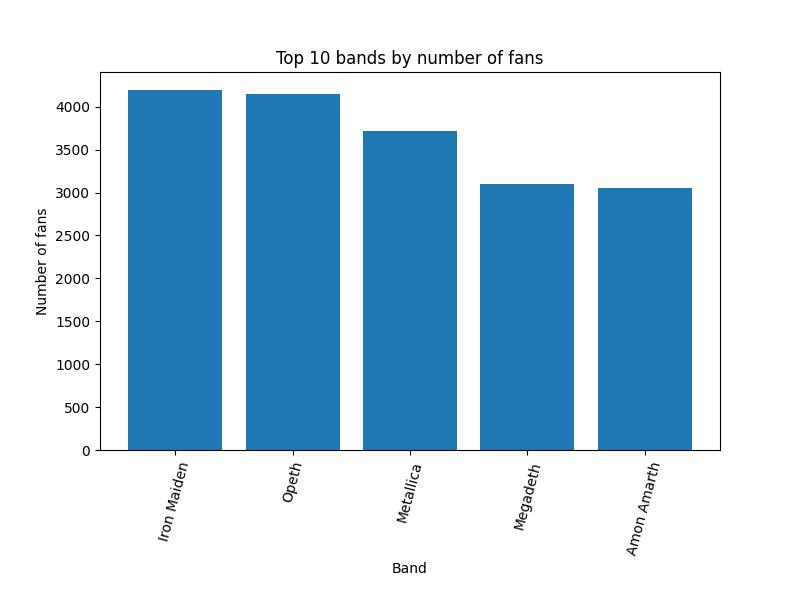
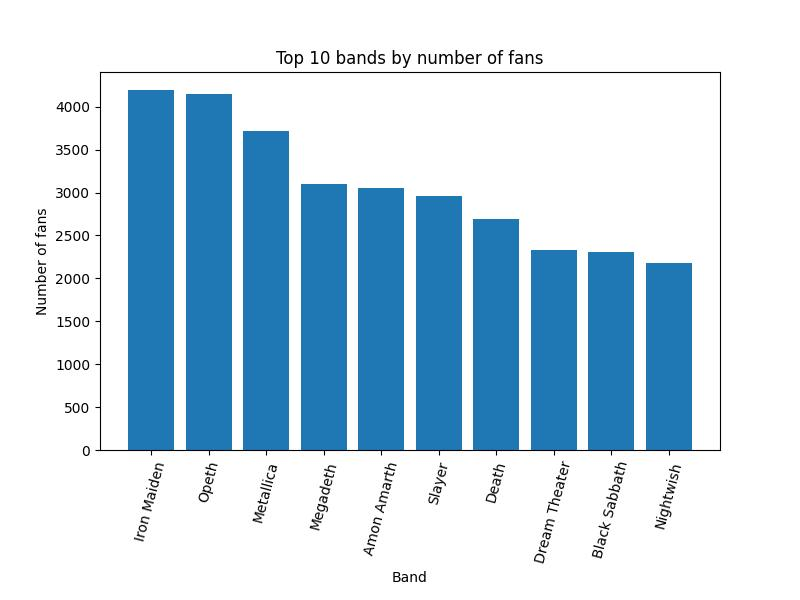
part 5: removed duplicates

diff --git a/exercise_5/convert_dataset.py b/exercise_5/convert_dataset.py
@@ -3,12 +3,12 @@
 import pandas as pd
 
 # https://stackoverflow.com/a/18172249/12864941
-metal_bands = pd.read_csv('metal_bands_2017.csv', encoding='ISO-8859-1', index_col=1)
-world_pop = pd.read_csv('world_population_1960_2015.csv', encoding='ISO-8859-1', index_col=1)
+metal_bands = pd.read_csv('metal_bands_2017.csv', encoding='ISO-8859-1', index_col=0)
+world_pop = pd.read_csv('world_population_1960_2015.csv', encoding='ISO-8859-1', index_col=0)
 
 # Remove useless redundant second column
 metal_bands.drop(metal_bands.columns[0], axis=1, inplace=True)
-# metal_bands.drop_duplicates(inplace=True)
+metal_bands.drop_duplicates(inplace=True)
 
 # https://stackoverflow.com/a/47329203/12864941
 metal_bands.to_csv('metal_bands_2017.csv', encoding='utf-8')

diff --git a/exercise_5/analysis.py b/exercise_5/analysis.py
@@ -77,4 +77,4 @@ plt.title('Number of fans by band (log scale)')
 # plt.show()
 plt.savefig(os.path.join('images', 'fans_hist_log.jpg'))
 
-print(f'{len(nb_fans[nb_fans < 10])} out of {len(nb_fans)} has less than 10 fans')
+print(f'{len(nb_fans[nb_fans < 10])} out of {len(nb_fans)} have less than 10 fans')

diff --git a/exercise_5/README.md b/exercise_5/README.md
@@ -49,7 +49,13 @@ Feel free to add useful visualizations for each step of your processing.
 
 dataset about metal bands by nation from 1960 to 2017 ([source](https://www.kaggle.com/datasets/mrpantherson/metal-by-nation?resource=download)).
 
-(sidenote: had to change the encoding, see ```convert_dataset.py```)
+### Clean up
+
+(see convert_dataset.py)
+
+The dataset's encoding was ISO-8859-1, we changed it to utf-8.
+
+Some bands appeared twice in the dataset.
 
 ### Analysis
 

diff --git a/README.md b/README.md
@@ -37,7 +37,6 @@ pip3 freeze > requirements.txt
 ## Todo
 
 Part 5:
-- remove duplicates in dataset
 - finish analysis
 - solve problem using unsupervised learning
 
